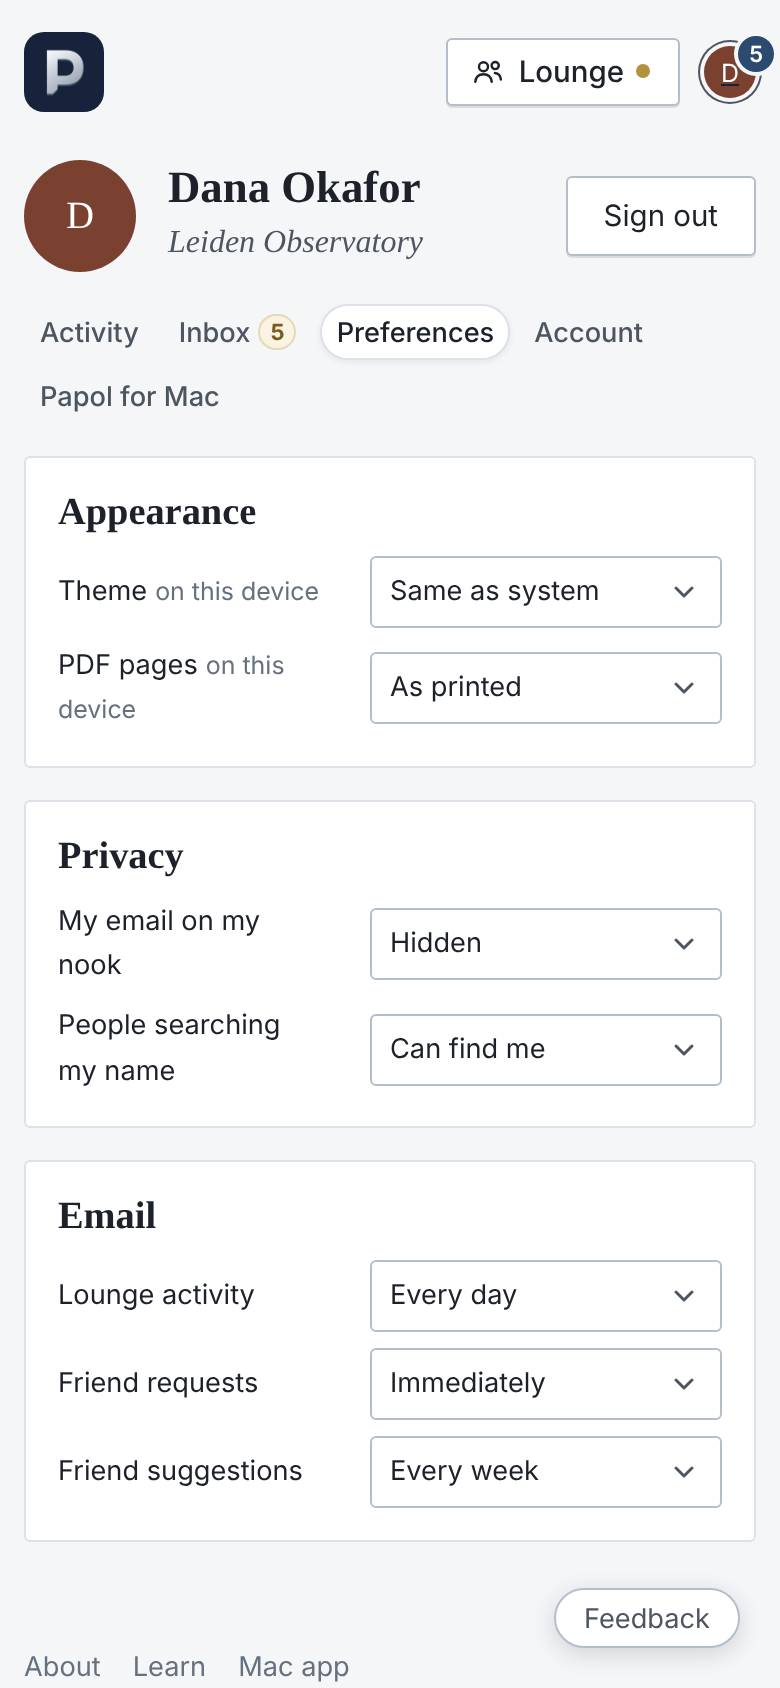
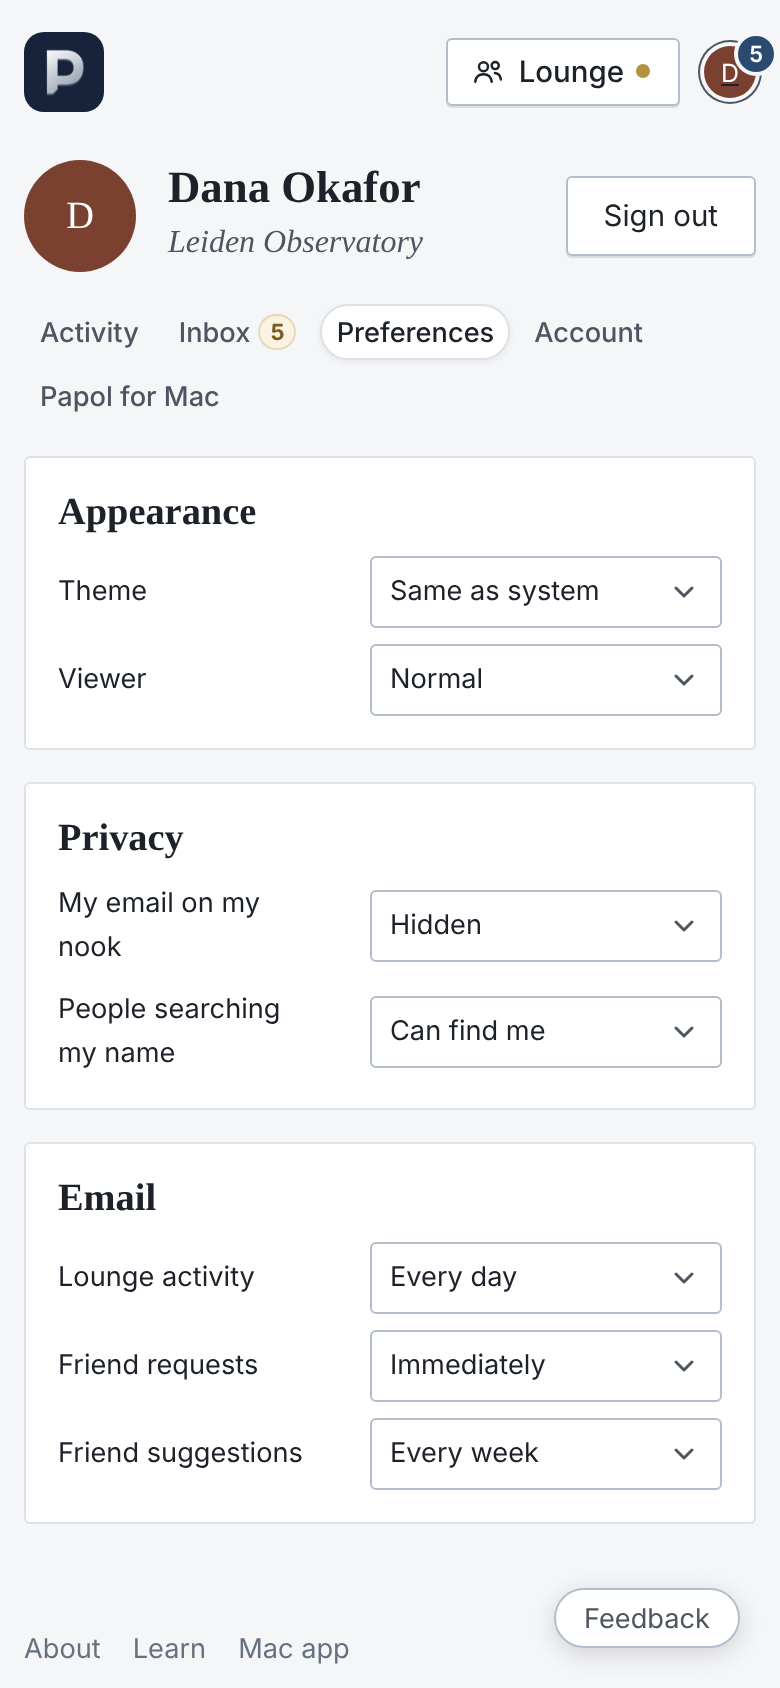
Preferences: Appearance rows read Theme and Viewer, with no "on this device"
The PDF pages row is named Viewer, its first choice Normal where it read
As printed, and neither row carries the small "on this device" note.

Claude-Session: https://claude.ai/code/session_01PQZzMSX4hLLV5yhxKw9ZpZ

diff --git a/frontend/src/components/PreferencesPanel.jsx b/frontend/src/components/PreferencesPanel.jsx
@@ -53,7 +53,7 @@ export default function PreferencesPanel({ user, onUserUpdated }) {
       <section className="panel preferences-block" aria-labelledby="preferences-appearance">
         <h2 className="panel-title" id="preferences-appearance">Appearance</h2>
         <div className="local-setting-row preferences-row">
-          <label htmlFor="preference-theme"><strong>Theme</strong> <span className="preferences-scope">on this device</span></label>
+          <label htmlFor="preference-theme"><strong>Theme</strong></label>
           <select id="preference-theme" value={theme} onChange={(e) => setTheme(chooseTheme(e.target.value))}>
             <option value="system">Same as system</option>
             <option value="light">Light</option>
@@ -63,9 +63,9 @@ export default function PreferencesPanel({ user, onUserUpdated }) {
         {/* The paper itself, apart from the theme: the viewer's bar has the
             same switch. */}
         <div className="local-setting-row preferences-row">
-          <label htmlFor="preference-pdf-pages"><strong>PDF pages</strong> <span className="preferences-scope">on this device</span></label>
+          <label htmlFor="preference-pdf-pages"><strong>Viewer</strong></label>
           <select id="preference-pdf-pages" value={darkPages ? 'dark' : 'printed'} onChange={(e) => setDarkPages(chooseDarkPages(e.target.value === 'dark'))}>
-            <option value="printed">As printed</option>
+            <option value="printed">Normal</option>
             <option value="dark">Dark</option>
           </select>
         </div>

diff --git a/shared/applicationStyles.js b/shared/applicationStyles.js
@@ -5917,7 +5917,6 @@ ${talkStyles}
 .preferences-row label strong { color: var(--ink); font: 400 var(--fs-sm)/1.4 var(--font-ui); }
 .preferences-row label { line-height: 1.4; }
 .preferences-row select { width: 11rem; font-family: var(--font-ui); }
-.preferences-scope { color: var(--ink-faint); font: 400 var(--fs-xs)/1.4 var(--font-ui); }
 .preferences-mac-note { display: grid; gap: 2px; margin: 0; }
 .preferences-mac-note strong { color: var(--ink); font: 400 var(--fs-sm)/1.4 var(--font-ui); }
 .preferences-mac-note span { color: var(--ink-soft); font: 400 var(--fs-sm)/1.4 var(--font-ui); }
